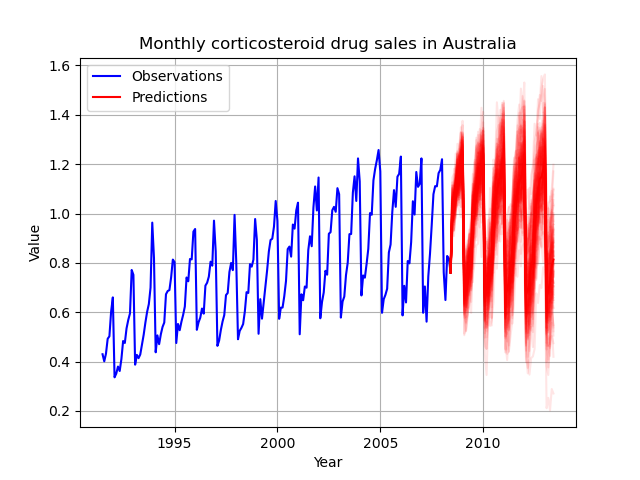
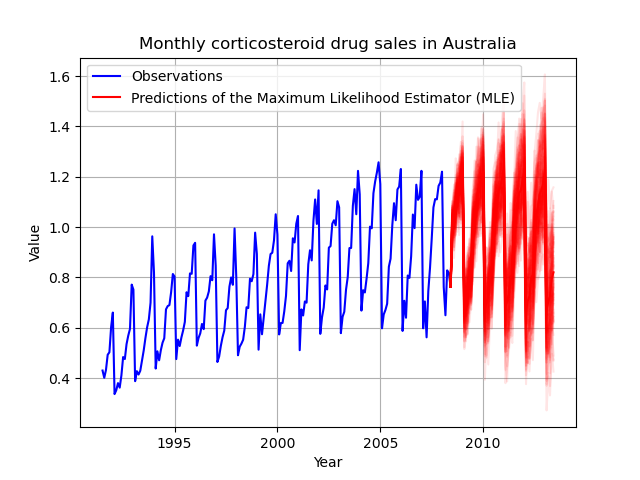
Separate forward into two methods transforming innovations into observations and vice versa.

diff --git a/ARIMA/example.py b/ARIMA/example.py
@@ -18,17 +18,19 @@ year = data['time'].to_numpy()
 observations = pt.Tensor(data['value'])
 model = ARIMA(3,0,1,0,1,2,12)
 
-# Optimize model parameters
+# Optimize model parameters in order find the Maximum Likelihood Estimator (MLE).
+# In case of an ARIMA model maximizing the likelihood of the observations is equivalent to maxmizing the likelihood of the innovations as the Jacobian determinant of the transformation between the two is equal to one.
+# See a discussion with ChatGPT on the subject at https://chat.openai.com/share/55d34600-6b9d-49ea-b7de-0b70b0e2382f.
 optimizer = pt.optim.Adam(model.parameters(), lr=0.05)
 for count in range(100):
     optimizer.zero_grad()
-    innovations = model(observations, invert=True)
+    innovations = model(observations)
     variance = (innovations**2).mean()
     variance.backward()
     optimizer.step()
 
 # Plot predictions
-innovations = model(observations, invert=True)
+innovations = model(observations)
 plt.plot(year, observations, 'b', label='Observations')
 simulations = []
 num_predictions = 5 * 12
@@ -36,15 +38,15 @@ all_year = np.concatenate((year, year[-1] + (np.arange(num_predictions) + 1) * n
 for count in range(100):
     new_innovations = pt.randn(num_predictions) * variance.sqrt()
     all_innovations = pt.cat([innovations, new_innovations])
-    all_observations = model(all_innovations).detach().numpy()
+    all_observations = model.predict(all_innovations).detach().numpy()
     simulations.append(all_observations)
     idx = range(len(innovations) - 1, len(all_innovations))
     plt.plot(all_year[idx], all_observations[idx], 'r', alpha=0.1)
-plt.plot(all_year[idx], np.array(simulations).mean(0)[idx], 'r', label='Predictions')
+plt.plot(all_year[idx], np.array(simulations).mean(0)[idx], 'r', label='Predictions of the Maximum Likelihood Estimator (MLE)')
 plt.xlabel('Year')
 plt.ylabel('Value')
 plt.title('Monthly corticosteroid drug sales in Australia')
-plt.legend()
+plt.legend(loc='upper left')
 plt.grid()
 output_file_name = os.path.dirname(__file__) + '/example.png'
 plt.savefig(output_file_name)

diff --git a/ARIMA/TimeSeries.py b/ARIMA/TimeSeries.py
@@ -41,8 +41,8 @@ class ARIMA(pt.nn.Module):
         >>> from torch import randn
         >>> arima = ARIMA(2, 1, 1, 3, 0, 0, 4, True, True, True)
         >>> input = randn(7)
-        >>> output = arima(input)
-        >>> input_from_output = arima(output, invert=True)
+        >>> output = arima.predict(input)
+        >>> input_from_output = arima(output)
         >>> assert_array_almost_equal(input.detach().numpy(), input_from_output.detach().numpy(), 7)
     '''
     def __init__(self, p, d, q, ps, ds, qs, s, drift=False, fix_i_tail=True, fix_o_tail=False):
@@ -70,7 +70,7 @@ class ARIMA(pt.nn.Module):
         self.i_tail = i_tail if fix_i_tail else pt.nn.Parameter(i_tail)
         self.o_tail = o_tail if fix_o_tail else pt.nn.Parameter(o_tail)
         
-    def forward(self, input, invert=False):
+    def transform(self, input, invert=False):
         # Calculate coefficients of observations
         o_params = [*self.PD.parameters()] + [*self.PDS.parameters()]
         o_coefs = self.o_coefs
@@ -105,6 +105,12 @@ class ARIMA(pt.nn.Module):
             x = x - (output[count:] * o_coefs[:-1]).sum(0)
             output = pt.cat([output, x])
         return output[-(count + 1):]
+    
+    def forward(self, observations):
+        return self.transform(observations, invert=True)
+    
+    def predict(self, innovations):
+        return self.transform(innovations, invert=False)
 
 if __name__ == "__main__":
     import doctest
